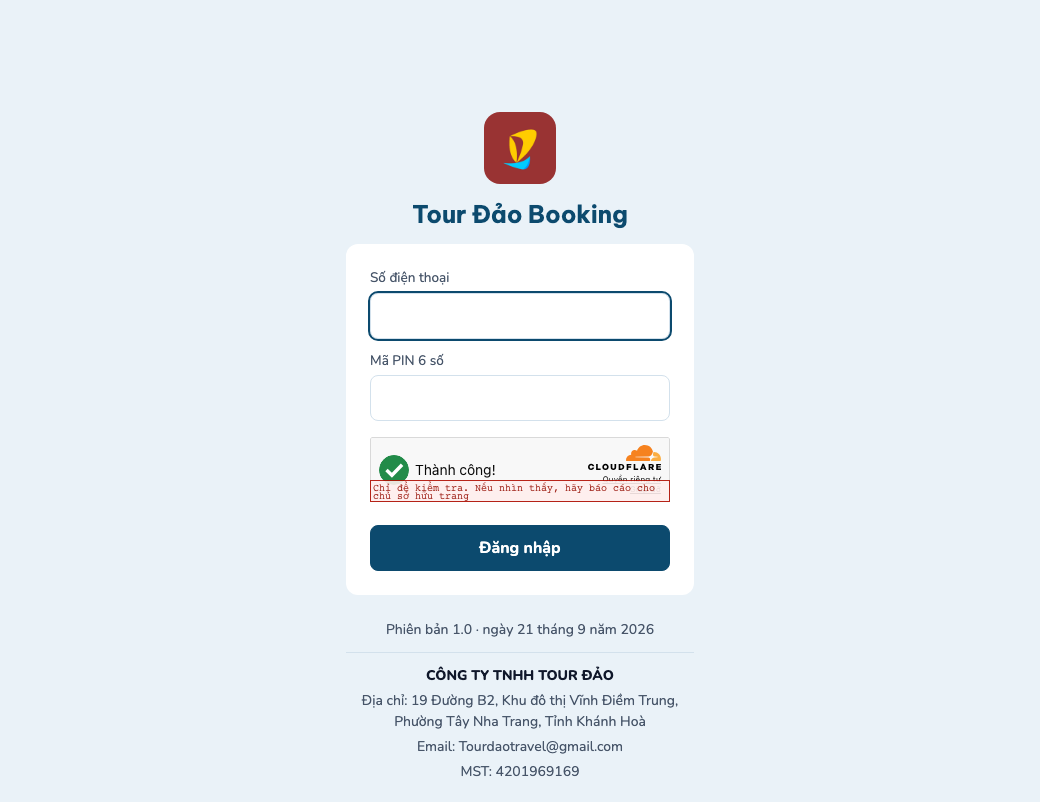
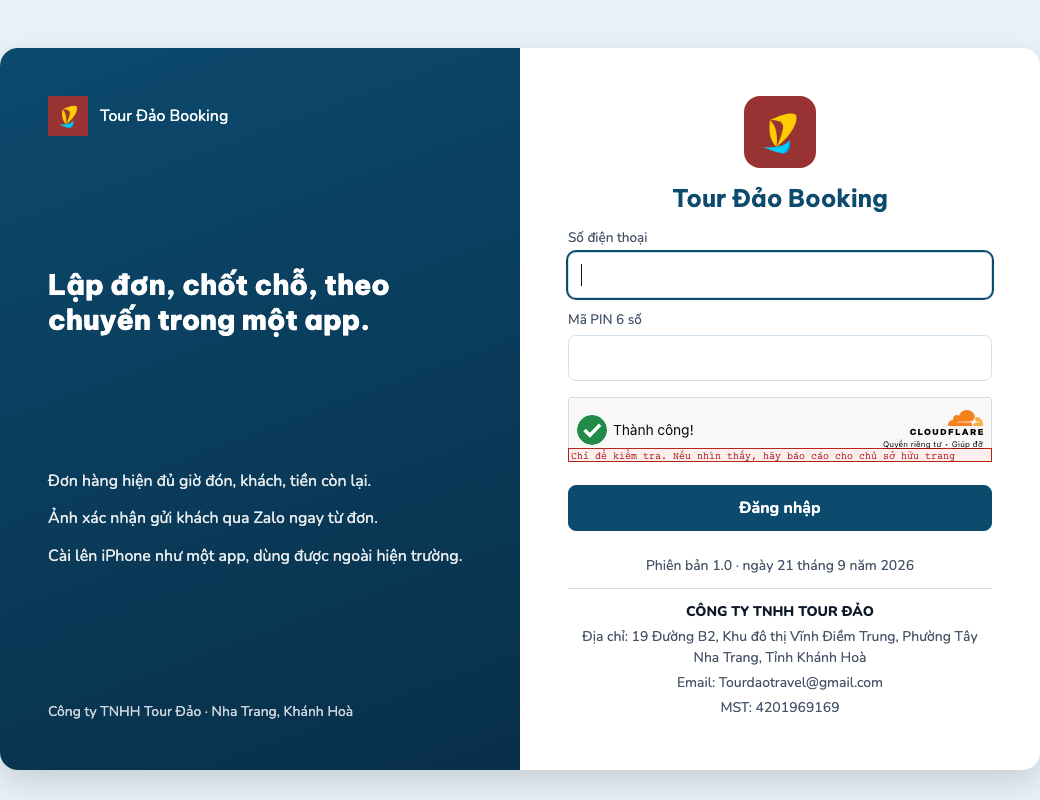
Đợt C: thêm cột thương hiệu cho trang Đăng nhập ở máy tính
Máy tính (≥900px): main.login thành lưới 2 cột — cột trái nền gradient
primary (logo, khẩu hiệu, 3 gạch đầu dòng, tên công ty), cột phải bọc
nguyên trạng nội dung cũ (logo, h1, banner bảo trì, form, chân trang)
trong .login-form-col. Dưới 900px ẩn cột thương hiệu bằng
@media (max-width: 899px) để giữ đúng giao diện điện thoại hiện có.
Thêm 2 token mới vào nhóm "Riêng của Tour Đảo Booking" ở app.css:
--fs-hero (cỡ chữ khẩu hiệu) và --w-login-wide (bề rộng khối 2 cột,
không vượt --w-main). Không đổi id/logic đăng nhập, Turnstile, bảo trì.

Đã chạy lại v1-dang-nhap.mjs (15/15 bước xanh, cần mạng) — ảnh
dang-nhap-1040.png và ket-qua-dang-nhap.json cập nhật theo layout mới.

diff --git a/public/login.html b/public/login.html
@@ -2,24 +2,37 @@
 <html lang="vi"><head><meta charset="utf-8"><meta name="viewport" content="width=device-width, initial-scale=1, viewport-fit=cover"><meta name="robots" content="noindex"><meta name="theme-color" content="#0c4a6e"><meta name="apple-mobile-web-app-capable" content="yes"><meta name="mobile-web-app-capable" content="yes"><meta name="apple-mobile-web-app-status-bar-style" content="black-translucent"><meta name="apple-mobile-web-app-title" content="Tour Đảo"><link rel="manifest" href="/manifest.webmanifest"><link rel="icon" type="image/png" href="/icons/icon-192.png"><link rel="apple-touch-icon" href="/icons/apple-touch-icon.png"><link rel="stylesheet" href="/app.css"><title>Đăng nhập — Tour Đảo Booking</title></head>
 <body class="login-page">
 <main class="login">
-  <img class="login-logo" src="/icons/icon-192.png" alt="" width="72" height="72">
-  <h1>Tour Đảo Booking</h1>
-  <!-- Banner chế độ bảo trì: web/login.ts hiện khi GET /api/auth/config báo đang bảo trì (hoặc đăng nhập bị 503 `maintenance`). KHÔNG che form: chủ dự án vẫn phải đăng nhập được. -->
-  <div id="maintenance-banner" class="alert warn login-maintenance" role="status" hidden><p id="maintenance-text"></p></div>
-  <form id="login-form" class="card" autocomplete="on">
-    <div id="error" class="alert" role="alert" hidden></div>
-    <label>Số điện thoại<input id="phone" type="tel" inputmode="tel" autocomplete="username" required autofocus></label>
-    <label>Mã PIN 6 số<input id="pin" type="password" inputmode="numeric" pattern="[0-9]{6}" maxlength="6" autocomplete="current-password" required></label>
-    <!-- Khung của widget Cloudflare Turnstile: web/login.ts chỉ hiện và dựng khi máy chủ báo có khoá (GET /api/auth/config). -->
-    <div id="turnstile-widget" class="login-turnstile" hidden></div>
-    <button id="turnstile-retry" class="btn" type="button" hidden>Thử lại</button>
-    <button id="submit" class="btn btn-primary" type="submit">Đăng nhập</button>
-  </form>
-  <!-- Chân trang: dòng phiên bản do web/login.ts điền từ src/shared/app-info.ts; khối công ty do web/login.ts dựng từ GET /api/company (lỗi/chậm thì ẩn). -->
-  <footer class="login-info">
-    <p id="release" class="login-release"></p>
-    <div id="company" class="login-company" hidden></div>
-  </footer>
+  <!-- Cột thương hiệu: chỉ hiện ở máy tính (≥900px, xem public/app.css); chữ tĩnh, không gọi thêm API. -->
+  <div class="login-brand">
+    <div class="login-brand-head"><img src="/icons/icon-192.png" alt="" width="40" height="40"><span>Tour Đảo Booking</span></div>
+    <div class="login-brand-tagline">Lập đơn, chốt chỗ, theo chuyến trong một app.</div>
+    <div class="login-brand-points">
+      <div>Đơn hàng hiện đủ giờ đón, khách, tiền còn lại.</div>
+      <div>Ảnh xác nhận gửi khách qua Zalo ngay từ đơn.</div>
+      <div>Cài lên iPhone như một app, dùng được ngoài hiện trường.</div>
+    </div>
+    <div class="login-brand-foot">Công ty TNHH Tour Đảo · Nha Trang, Khánh Hoà</div>
+  </div>
+  <div class="login-form-col">
+    <img class="login-logo" src="/icons/icon-192.png" alt="" width="72" height="72">
+    <h1>Tour Đảo Booking</h1>
+    <!-- Banner chế độ bảo trì: web/login.ts hiện khi GET /api/auth/config báo đang bảo trì (hoặc đăng nhập bị 503 `maintenance`). KHÔNG che form: chủ dự án vẫn phải đăng nhập được. -->
+    <div id="maintenance-banner" class="alert warn login-maintenance" role="status" hidden><p id="maintenance-text"></p></div>
+    <form id="login-form" class="card" autocomplete="on">
+      <div id="error" class="alert" role="alert" hidden></div>
+      <label>Số điện thoại<input id="phone" type="tel" inputmode="tel" autocomplete="username" required autofocus></label>
+      <label>Mã PIN 6 số<input id="pin" type="password" inputmode="numeric" pattern="[0-9]{6}" maxlength="6" autocomplete="current-password" required></label>
+      <!-- Khung của widget Cloudflare Turnstile: web/login.ts chỉ hiện và dựng khi máy chủ báo có khoá (GET /api/auth/config). -->
+      <div id="turnstile-widget" class="login-turnstile" hidden></div>
+      <button id="turnstile-retry" class="btn" type="button" hidden>Thử lại</button>
+      <button id="submit" class="btn btn-primary" type="submit">Đăng nhập</button>
+    </form>
+    <!-- Chân trang: dòng phiên bản do web/login.ts điền từ src/shared/app-info.ts; khối công ty do web/login.ts dựng từ GET /api/company (lỗi/chậm thì ẩn). -->
+    <footer class="login-info">
+      <p id="release" class="login-release"></p>
+      <div id="company" class="login-company" hidden></div>
+    </footer>
+  </div>
 </main>
 <script type="module" src="/js/login.js"></script>
 </body></html>

diff --git a/public/app.css b/public/app.css
@@ -79,6 +79,8 @@
   --logo-login: 72px;
   --radius-icon: 22.37%;    /* độ bo góc icon iOS */
   --w-narrow: 420px;        /* bề rộng tối đa của thẻ hẹp (trang Tôi) */
+  --fs-hero: 28px;          /* cỡ chữ khẩu hiệu ở cột thương hiệu trang Đăng nhập (máy tính) */
+  --w-login-wide: calc(var(--w-main) - var(--s4)); /* bề rộng khối 2 cột trang Đăng nhập ở máy tính, không vượt --w-main */
   --fs-name: 1.1rem;        /* tên và chữ viết tắt trong thẻ hồ sơ (trang Tôi) */
   --fs-bar-title: 1.125rem; /* tiêu đề trên thanh đầu trang (điện thoại) */
   --h-turnstile: 65px;      /* chiều cao cố định của widget Cloudflare Turnstile (cỡ "flexible"/"normal"): khung giữ chỗ để widget dựng xong không đẩy nút Đăng nhập */
@@ -503,3 +505,16 @@ body.maint-open { overflow: hidden; }
 .booker { display: grid; gap: var(--s2); margin-top: var(--s3); }
 .booker-matches { display: grid; gap: var(--s2); }
 .booker-match { display: flex; flex-wrap: wrap; align-items: center; gap: var(--s2); }
+
+/* ---------- cột thương hiệu trang Đăng nhập (Đợt C, chỉ máy tính) ---------- */
+@media (max-width: 899px) { .login-brand { display: none; } } /* dưới 900px: main.login không phải grid, cột thương hiệu không có chỗ đứng gọn — ẩn để giữ nguyên trạng ở điện thoại */
+@media (min-width: 900px) {
+  body.login-page main.login { display: grid; grid-template-columns: 1fr 1fr; align-items: stretch; max-width: var(--w-login-wide); margin: 6vh auto 0; gap: 0; padding: 0; background: var(--c-on-dark); border-radius: var(--radius-lg); box-shadow: var(--shadow-overlay); overflow: hidden; }
+  .login-brand { display: flex; flex-direction: column; justify-content: space-between; gap: var(--s6); padding: var(--s7); color: var(--c-on-dark); background: linear-gradient(160deg, var(--c-primary), var(--c-primary-strong)); }
+  .login-brand-head { display: flex; align-items: center; gap: var(--s3); }
+  .login-brand-tagline { font-family: var(--font-display); font-weight: 800; font-size: var(--fs-hero); line-height: 1.25; }
+  .login-brand-points { display: flex; flex-direction: column; gap: var(--s3); font-size: var(--fs-ui); line-height: 1.6; opacity: .9; }
+  .login-brand-foot { font-size: var(--fs-label); opacity: .8; }
+  .login-form-col { display: flex; flex-direction: column; justify-content: center; padding: var(--s7); }
+  .login-form-col .card { box-shadow: none; padding: 0; margin: 0; }
+}
